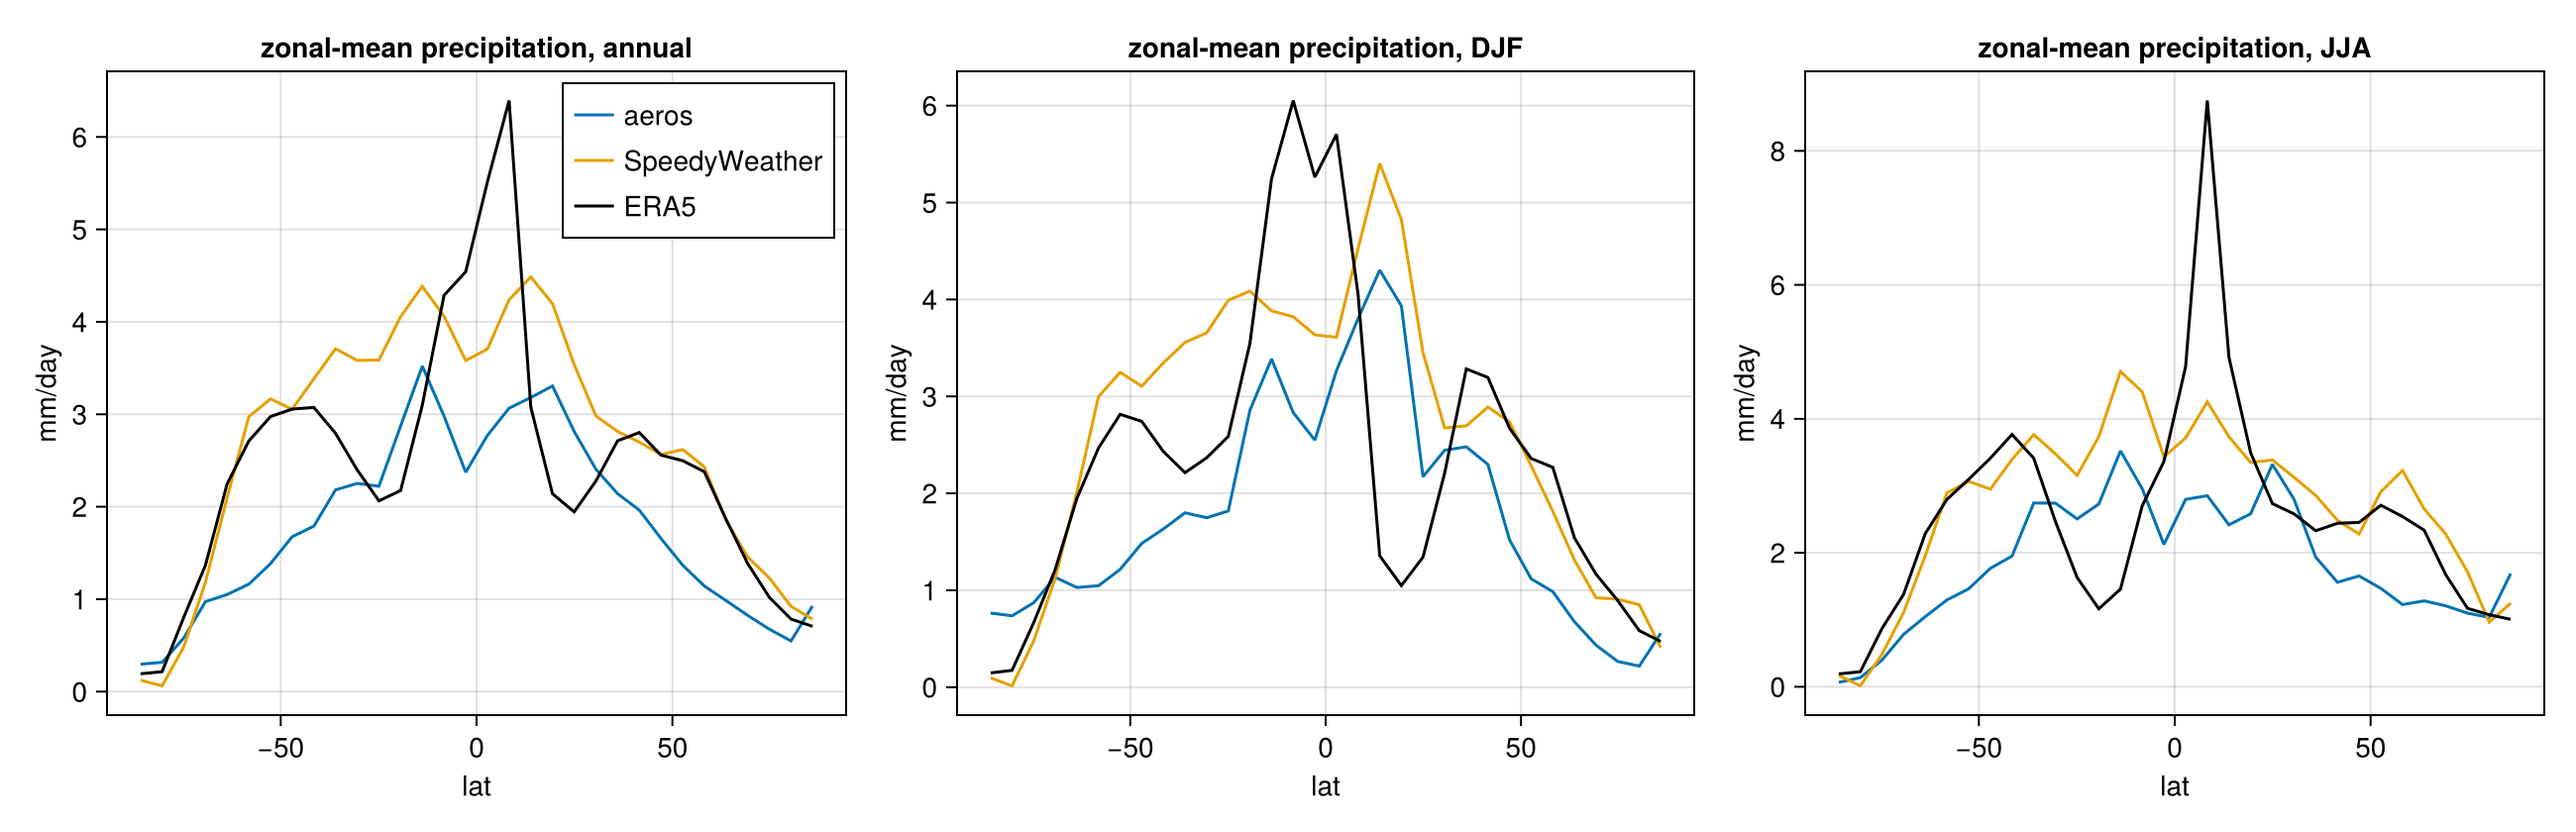
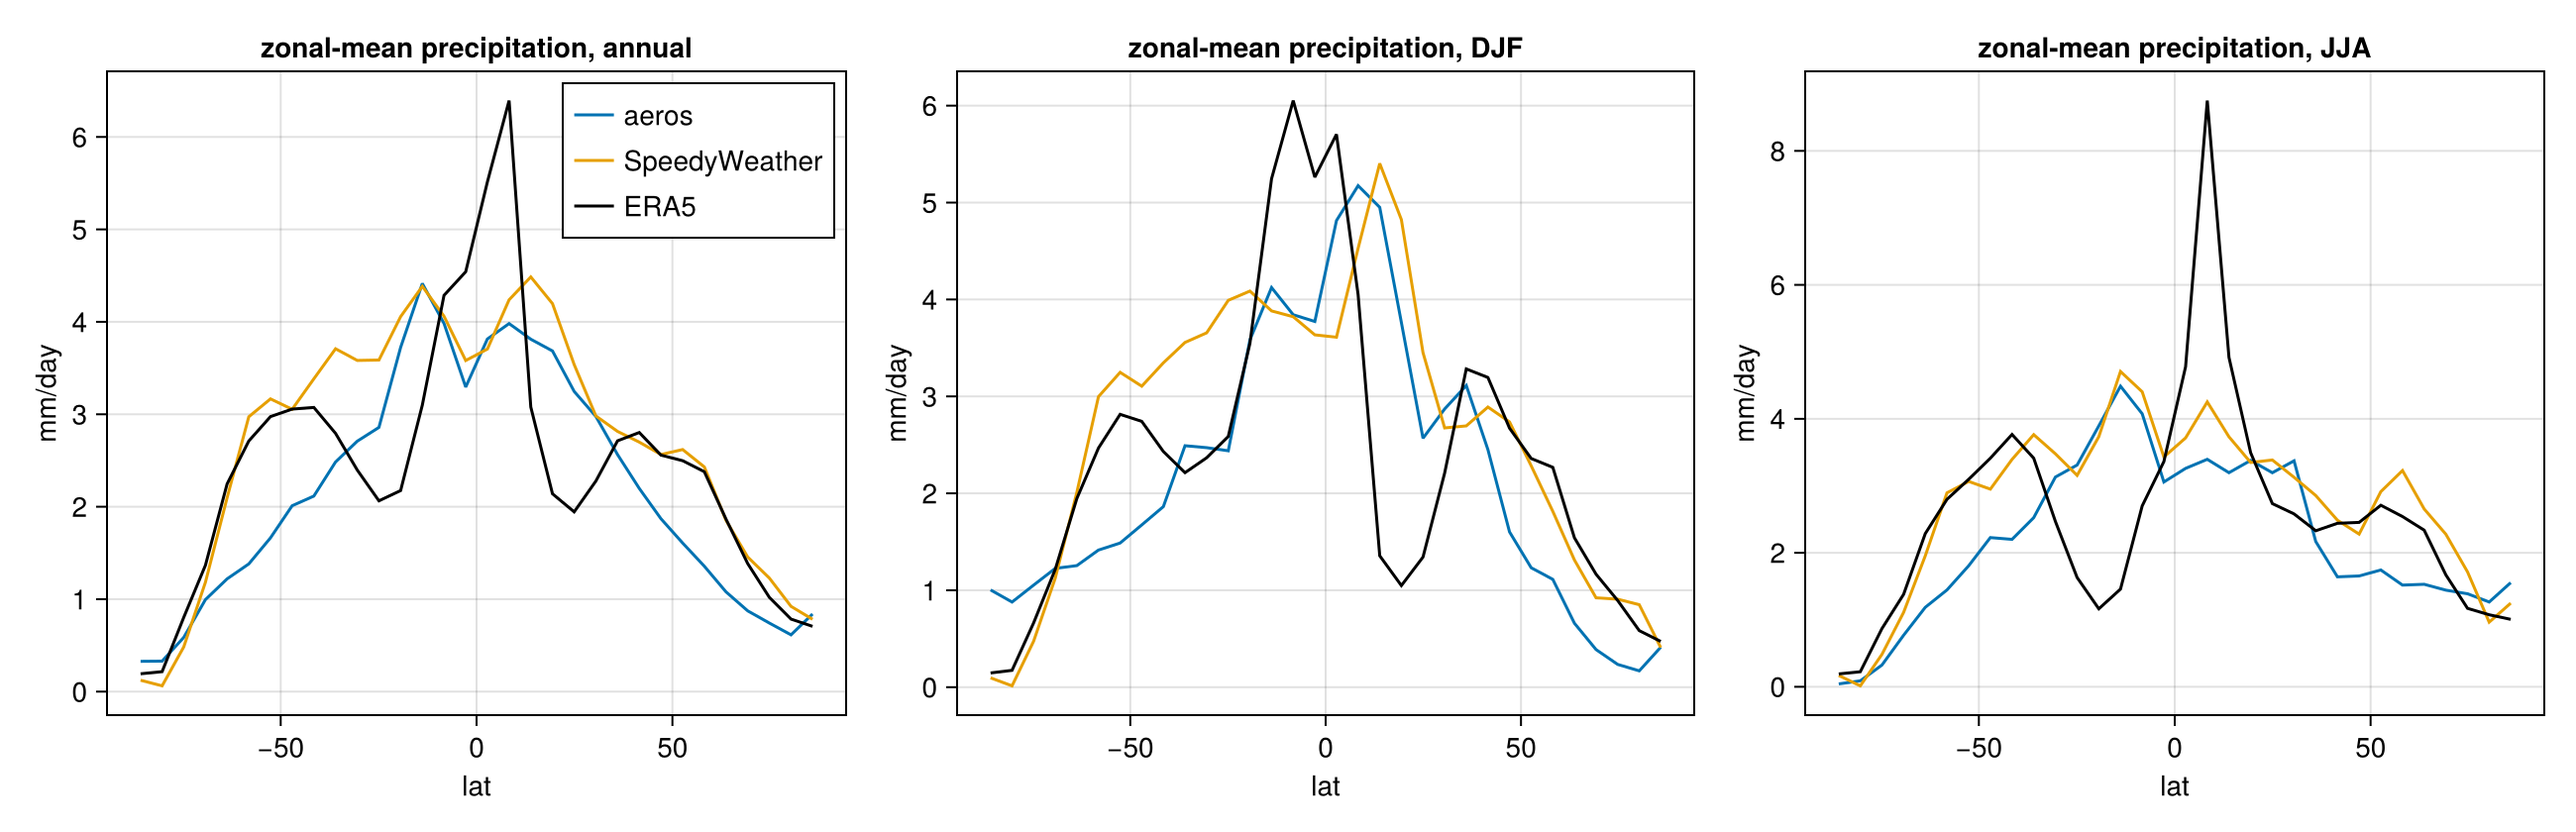
cloud: coupled calibration of the diagnostic scheme (cld_rhc_top 1.07, lwc 0.020, iwc 0.014 g/m3)
L6 real-Earth 3 yr: CRE SW -57 / LW +31 (ERA5 -46/+22), cover 0.52, TOA net +1.3 with the clear-sky budget at ERA5's; P = E 2.7 mm/day (ERA5 2.9), LH 79 W/m2. Z500* 93 m and NH-land t2m amplitude 36.9 K now overshoot.

diff --git a/docs/m2_handoff.md b/docs/m2_handoff.md
@@ -46,15 +46,19 @@ Cost is close to linear in levels with a fixed overhead (transforms and physics 
 per level); aeros is ~2.5× faster than SpeedyWeather per step. L20 blew up at day 354 at
 dt=3600 (not investigated). SpeedyWeather's 8 levels are SPEEDY's (Molteni 2003).
 
-### Climatology, L6, 3 yr (aeros / SpeedyWeather / ERA5) — `docs/refs/realearth_metrics_2026-09-06_L6.md`
+### Climatology, L6, 3 yr (aeros / SpeedyWeather / ERA5) — `docs/refs/realearth_metrics_2026-09-06_L6_clouds.md`
 
-precip = evap 2.2 / 3.3 / 2.9 mm/day · TOA +3.2 W/m² in yr 3 (−3.7 in yr 2: ±3 interannual)
-· lowest-level T 283.5 / 278 / 287.5 K · max [u] 52 / 63 / 34 m/s · DJF NH Z500* RMS
-85 / 68 / 76 m · NH-land t2m Jul−Jan 31.9 / 29 / 33.6 K · 2810 SYPD. Figures in
-`docs/figures/realearth_*.png`. Against L8 (`docs/refs/realearth_metrics_2026-09-05.md`):
-precip +0.2, lowest level 1.2 K colder, lid 226 vs 222 K, Z500* 85 vs 77 m (ERA5 76), +28%
-throughput. aeros' zonal temperature structure is closer to ERA5 than SpeedyWeather's
-(SW is cold aloft with a 235 K lid).
+(after the mixed-phase saturation and the coupled cloud calibration, evening 2026-09-06)
+precip = evap **2.7** / 3.3 / 2.9 mm/day · TOA +1.3 W/m² (yr-3 mean) · absorbed SW 231 (ERA5 243),
+OLR 230 (242), CRE SW −57 / LW +31 (ERA5 −46 / +22), cloud cover 0.52 (0.63) · lowest-level T
+283.3 / 278 / 287.5 K · max [u] 57 / 63 / 34 m/s · DJF NH Z500* RMS **93** / 68 / 76 m · NH-land
+t2m Jul−Jan **36.9** / 29 / 33.6 K · 2830 SYPD. Figures in `docs/figures/realearth_*.png`.
+Before the cloud retune (mixed phase only): P 2.2, Z500* 68.5, t2m amplitude 29.8 — the
+brighter planet (LH 79 vs 59 W/m²) over-drives the stationary wave and the land seasonal
+cycle; the land calibration was already flagged void. Earlier L6 (liquid, old clouds):
+`docs/refs/realearth_metrics_2026-09-06_L6.md` (P 2.2, Z500* 85, t2m 31.9); L8:
+`..._2026-09-05.md`. aeros' zonal temperature structure is closer to ERA5 than
+SpeedyWeather's (SW is cold aloft with a 235 K lid).
 
 **Known deficits, in the order to attack them:**
 1. **Saturated upper troposphere / lid** (RH ~100% above 200 hPa; ERA5 30–50%, SW dry at its
@@ -312,6 +316,29 @@ one change at a time; "lid" = tropical (|lat|<15) top-layer T / q (ERA5 layer me
 - SW-cloud fix (`cld_rhc_top=1`) brings the CRE to −59/+35 (ERA5 −46/+22) and P to 2.64 but leaves
   TOA at +17 W/m² (albedo was tuned against the old clouds) — a retune is a 4-knob / 3-target job.
 - Polar-cap precipitation is NOT a deficit at L6/L8 (see the morning entry).
+
+**Update 2026-09-06 (night): mixed-phase saturation and the coupled cloud calibration.**
+- **Mixed-phase saturation** (577b9ca): `aeros_qsat` blends liquid Tetens (≥ 0 °C) and ice Tetens
+  (≤ −23 °C) with the IFS quadratic weight; `aeros_latent(T)` returns the matching L_v→L_s and is
+  used by condensation, convection (per-layer L held through a step, so the Betts–Miller /
+  Frierson / Manabe energy closures stay exact; the Frierson shallow branch now shifts T_ref by
+  the latent heat of the redistributed water), the surface latent heat flux (L_s over ice/snow)
+  and the diagnostics. RH in the monthly file is now the ERA5 convention. Effect alone: lid water
+  −15%, P 2.2, Z500* 68.5 m, t2m amplitude 29.8 K.
+- **The energy-budget report is a time mean** (aed113e) — the snapshot at the Dec-31 report
+  date had SWin 352 (perihelion) and a ±10 W/m² noise on the net.
+- **Cloud calibration** (this commit): the clear-sky budget was already ERA5's (absorbed 288 / 289,
+  OLR 262 / 264), so the whole dim-planet excess was the cloud effect. The LW CRE is set by the
+  lid layer's cloud FRACTION, not its ice content: the 0–250 hPa layer is ~13 km deep, so any
+  ice makes it black at 231 K under 65% cover (iwc/4 → LW +61). Sweep R1–R12 (`logs/cld_R*.log`):
+  `cld_rhc_top = 1.07` (threshold ≈ 1 in the lid, 0.87 at 365 hPa, unchanged below), `cld_lwc
+  0.020e-3`, `cld_iwc 0.014e-3` → CRE −56/+31, cover 0.52, net +1.6 with no albedo change,
+  P 2.70, LH 79 W/m². The LW floor of ~+30 with no lid cloud is the mid-level layers' geometry.
+- **Cost:** Z500* 93 m (ERA5 76) and NH-land t2m amplitude 36.9 K (33.6): the stronger
+  hydrological cycle over-drives both. Next: the land calibration (already void), and the
+  stationary wave (orographic + thermal forcing at T21).
+- The tropical lid is unchanged (225 K top-level mean; the mechanism entry above stands).
+
 
 
 

diff --git a/docs/refs/realearth_metrics_2026-09-06_L6_clouds.md b/docs/refs/realearth_metrics_2026-09-06_L6_clouds.md
@@ -1,0 +1,17 @@
+# aeros vs SpeedyWeather vs ERA5, real-Earth T21 (aeros L6, mixed-phase saturation + coupled cloud calibration, 2026-09-06)
+
+aeros 3 yr (2 yr spin-up + 1 yr monthly), dt = 3600. Year-3 means: TOA net +1.3 W/m², absorbed SW 288 clear / 231 all-sky, OLR 261 clear / 230 all-sky, CRE SW −57 LW +31 (ERA5 −46 / +22), cloud cover 0.52 (ERA5 0.63), P = E = 2.72 mm/day, LH 79 W/m², water residual −0.010 mm/day.
+
+aeros: `mwm/D_realearth/output/aeros_realearth_T21L6.nc`  
+SW: `/Users/alrobi001/models/aeros/mwm/D_realearth/output/sw_realearth_T21L8.nc`
+
+| metric | aeros | SpeedyWeather | ERA5 |
+|---|---|---|---|
+| global-mean precip [mm/day] | 2.7 | 3.3 | 2.9 |
+| global-mean T, top level / 70 hPa [K] | 225.1 | 235.2 | 206.6 |
+| global-mean T, lowest level / 2 m [K] | 283.3 | 278.3 | 287.5 |
+| max annual zonal-mean u [m/s] | 56.7 | 63.0 | 33.7 |
+| max annual [u] at 200 hPa [m/s] | 47.1 | 41.2 | 31.3 |
+| DJF NH Z500* RMS 20-80N [m] | 93.1 | 68.3 | 76.1 |
+| t2m |Jul-Jan|, NH 40-70N land [K] | 36.9 | 29.2 | 33.6 |
+| throughput [SYPD, 10 threads] | 2830.6 | 1037.9 | NaN |
